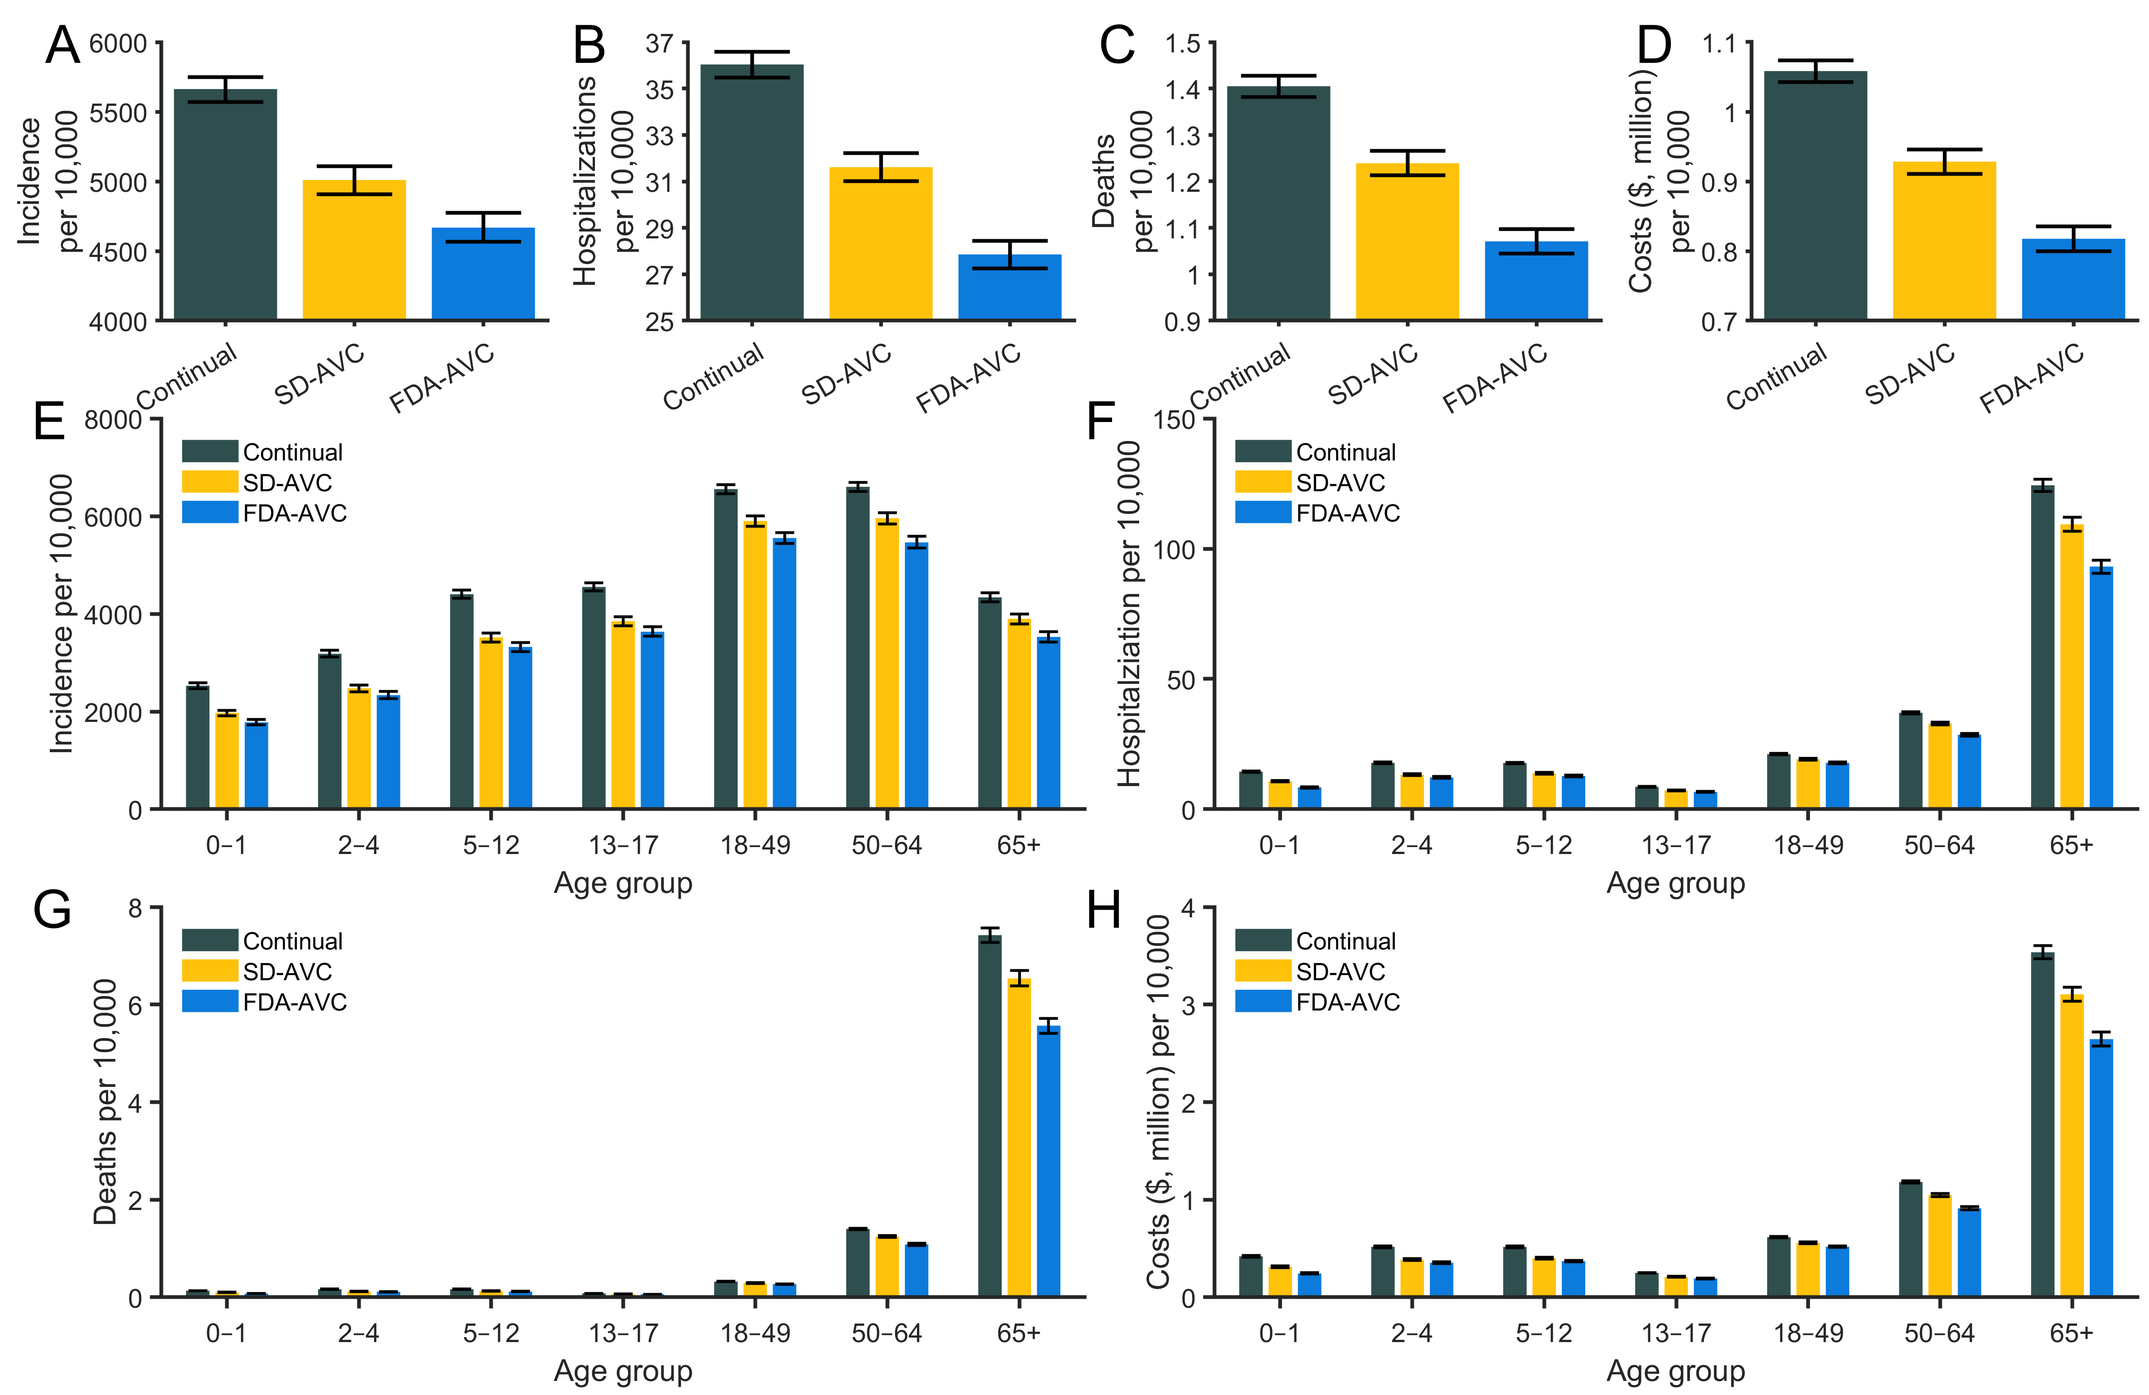
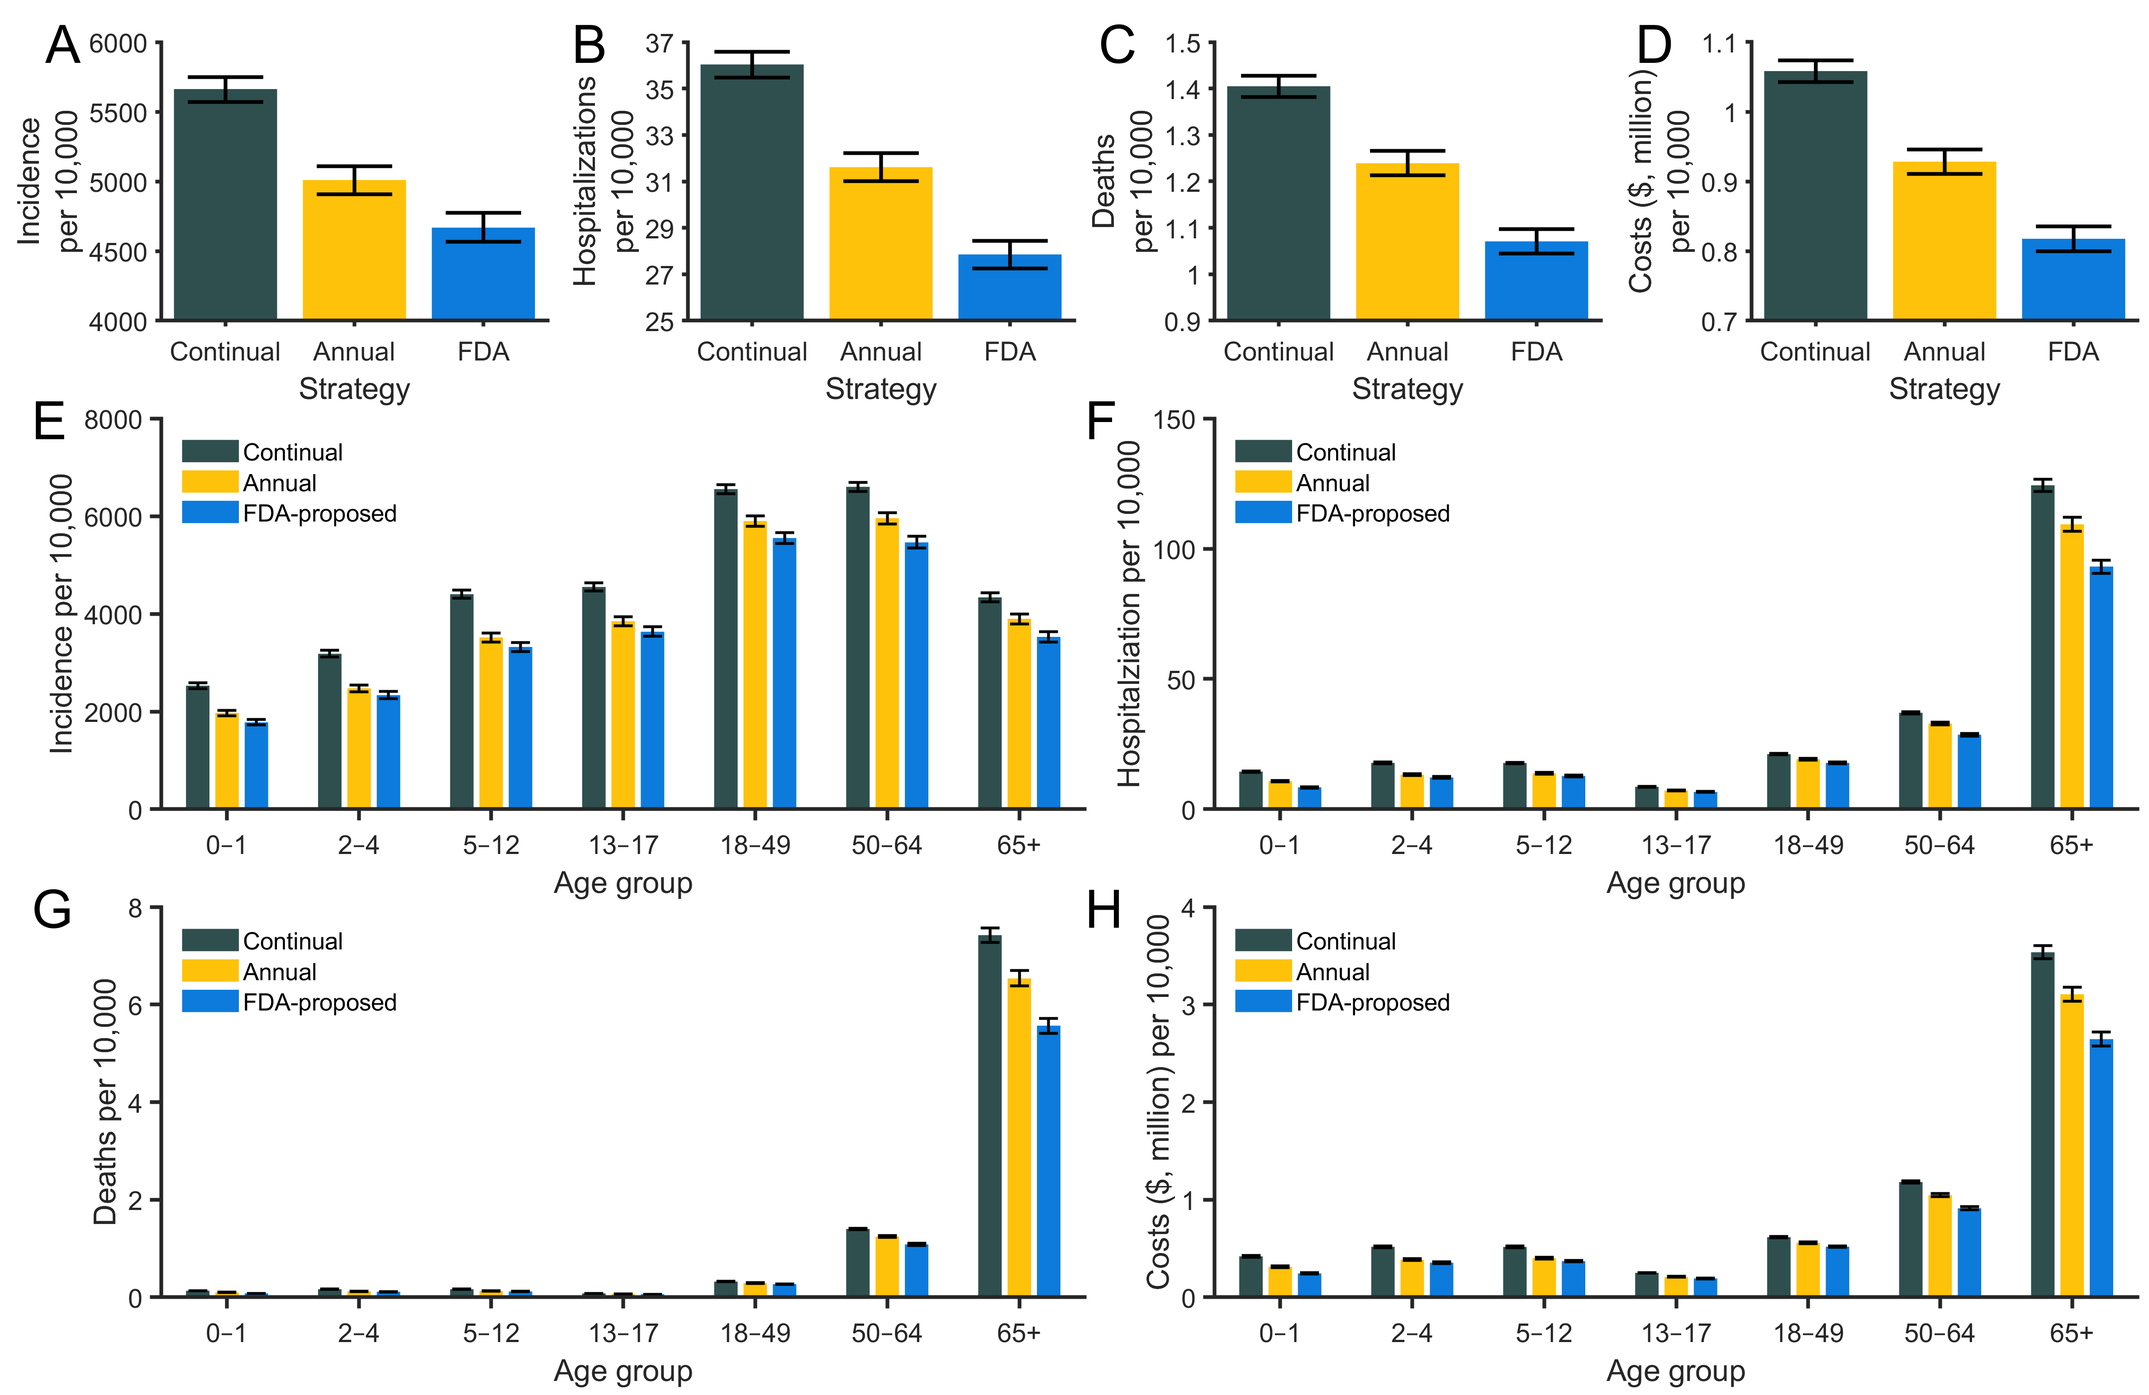
update scenario labels

diff --git a/ODE/Figures/Text_Output.m b/ODE/Figures/Text_Output.m
@@ -33,9 +33,9 @@ end
 Time_DoseFDA=Time_Dose(Y==max(Y));
 load([temp_cd 'Comparison_Summary_Main_Text_Annual_vs_Two_Dose_under_2_and_50_and_older_' num2str(Time_DoseFDA) '_days.mat']);
 
-fprintf(['SD-AVC vs FDA-AVC Hospital:' num2str(Comparison.Average.Cumulative_Count_Hospital_dt,'%10.0f') ' (95%% UI: ' num2str(Comparison.PRCT.Cumulative_Count_Hospital_dt(PRCT==2.5),'%10.0f')  char(8211) num2str(Comparison.PRCT.Cumulative_Count_Hospital_dt(PRCT==97.5),'%10.0f') ')  \n']);
-fprintf(['SD-AVC vs FDA-AVC Death:' num2str(Comparison.Average.Cumulative_Count_Death_dt,'%10.0f') ' (95%% UI: ' num2str(Comparison.PRCT.Cumulative_Count_Death_dt(PRCT==2.5),'%10.0f')  char(8211) num2str(Comparison.PRCT.Cumulative_Count_Death_dt(PRCT==97.5),'%10.0f') ')  \n']);
-fprintf(['SD-AVC vs FDA-AVC  Costs:' num2str(Comparison.Average.Cost_Total_dt(end)./10^9,'%3.2f') ' (95%% UI: ' num2str(Comparison.PRCT.Cost_Total_dt(PRCT==2.5,end)./10^9,'%3.2f') char(8211) num2str(Comparison.PRCT.Cost_Total_dt(PRCT==97.5,end)./10^9,'%3.2f') ') billion USD \n']);
+fprintf(['Annual vs FDA-proposed Hospital:' num2str(Comparison.Average.Cumulative_Count_Hospital_dt,'%10.0f') ' (95%% UI: ' num2str(Comparison.PRCT.Cumulative_Count_Hospital_dt(PRCT==2.5),'%10.0f')  char(8211) num2str(Comparison.PRCT.Cumulative_Count_Hospital_dt(PRCT==97.5),'%10.0f') ')  \n']);
+fprintf(['Annual vs FDA-proposed Death:' num2str(Comparison.Average.Cumulative_Count_Death_dt,'%10.0f') ' (95%% UI: ' num2str(Comparison.PRCT.Cumulative_Count_Death_dt(PRCT==2.5),'%10.0f')  char(8211) num2str(Comparison.PRCT.Cumulative_Count_Death_dt(PRCT==97.5),'%10.0f') ')  \n']);
+fprintf(['Annual vs FDA-proposed  Costs:' num2str(Comparison.Average.Cost_Total_dt(end)./10^9,'%3.2f') ' (95%% UI: ' num2str(Comparison.PRCT.Cost_Total_dt(PRCT==2.5,end)./10^9,'%3.2f') char(8211) num2str(Comparison.PRCT.Cost_Total_dt(PRCT==97.5,end)./10^9,'%3.2f') ') billion USD \n']);
 
 
 fprintf('=========================================================================== \n');
@@ -45,12 +45,12 @@ fprintf('=======================================================================
 load([temp_cd 'Model_Output_Summary_Main_Text_Annual.mat']);
 
 
-fprintf(['SD-AVC-Cumulative Count Hospital:' num2str(Output_Summary.Average.Cumulative_Count_Hospital,'%10.0f') ' (95%% UI: ' num2str(Output_Summary.PRCT.Cumulative_Count_Hospital(PRCT==2.5),'%10.0f') char(8211) num2str(Output_Summary.PRCT.Cumulative_Count_Hospital(PRCT==97.5),'%10.0f') ')  \n']);
-fprintf(['SD-AVC-Cumulative Count Death:' num2str(Output_Summary.Average.Cumulative_Count_Death,'%10.0f') ' (95%% UI: ' num2str(Output_Summary.PRCT.Cumulative_Count_Death(PRCT==2.5),'%10.0f') char(8211) num2str(Output_Summary.PRCT.Cumulative_Count_Death(PRCT==97.5),'%10.0f') ') \n']);
-fprintf(['SD-AVC-Cumulative Total Costs:' num2str(Output_Summary.Average.Cost_Total(end)./10^9,'%3.2f') ' (95%% UI: ' num2str(Output_Summary.PRCT.Cost_Total(PRCT==2.5,end)./10^9,'%3.2f') char(8211) num2str(Output_Summary.PRCT.Cost_Total(PRCT==97.5,end)./10^9,'%3.2f') ') billion USD \n']);
+fprintf(['Annual-Cumulative Count Hospital:' num2str(Output_Summary.Average.Cumulative_Count_Hospital,'%10.0f') ' (95%% UI: ' num2str(Output_Summary.PRCT.Cumulative_Count_Hospital(PRCT==2.5),'%10.0f') char(8211) num2str(Output_Summary.PRCT.Cumulative_Count_Hospital(PRCT==97.5),'%10.0f') ')  \n']);
+fprintf(['Annual-Cumulative Count Death:' num2str(Output_Summary.Average.Cumulative_Count_Death,'%10.0f') ' (95%% UI: ' num2str(Output_Summary.PRCT.Cumulative_Count_Death(PRCT==2.5),'%10.0f') char(8211) num2str(Output_Summary.PRCT.Cumulative_Count_Death(PRCT==97.5),'%10.0f') ') \n']);
+fprintf(['Annual-Cumulative Total Costs:' num2str(Output_Summary.Average.Cost_Total(end)./10^9,'%3.2f') ' (95%% UI: ' num2str(Output_Summary.PRCT.Cost_Total(PRCT==2.5,end)./10^9,'%3.2f') char(8211) num2str(Output_Summary.PRCT.Cost_Total(PRCT==97.5,end)./10^9,'%3.2f') ') billion USD \n']);
 
 fprintf('===========================================================================\n');
-fprintf(['Results: Benefits of FDA-AVC\n']);
+fprintf(['Results: Benefits of FDA-proposed\n']);
 fprintf('===========================================================================\n');
 
 Y=zeros(8,1);
@@ -70,9 +70,9 @@ end
 Time_Dose=Time_Dose(Y==max(Y));
 load([temp_cd 'Comparison_Summary_Main_Text_Annual_vs_Two_Dose_under_2_and_50_and_older_' num2str(Time_Dose) '_days.mat']);
 
-fprintf(['SD-AVC vs FDA-AVC Hospital:' num2str(Comparison.Average.Cumulative_Count_Hospital_dt,'%10.0f') ' (95%% UI: ' num2str(Comparison.PRCT.Cumulative_Count_Hospital_dt(PRCT==2.5),'%10.0f')  char(8211) num2str(Comparison.PRCT.Cumulative_Count_Hospital_dt(PRCT==97.5),'%10.0f') ')  \n']);
-fprintf(['SD-AVC vs FDA-AVC Death:' num2str(Comparison.Average.Cumulative_Count_Death_dt,'%10.0f') ' (95%% UI: ' num2str(Comparison.PRCT.Cumulative_Count_Death_dt(PRCT==2.5),'%10.0f')  char(8211) num2str(Comparison.PRCT.Cumulative_Count_Death_dt(PRCT==97.5),'%10.0f') ')  \n']);
-fprintf(['SD-AVC vs FDA-AVC  Costs:' num2str(Comparison.Average.Cost_Total_dt(end)./10^9,'%3.2f') ' (95%% UI: ' num2str(Comparison.PRCT.Cost_Total_dt(PRCT==2.5,end)./10^9,'%3.2f') char(8211) num2str(Comparison.PRCT.Cost_Total_dt(PRCT==97.5,end)./10^9,'%3.2f') ') billion USD \n']);
+fprintf(['Annual vs FDA-proposed Hospital:' num2str(Comparison.Average.Cumulative_Count_Hospital_dt,'%10.0f') ' (95%% UI: ' num2str(Comparison.PRCT.Cumulative_Count_Hospital_dt(PRCT==2.5),'%10.0f')  char(8211) num2str(Comparison.PRCT.Cumulative_Count_Hospital_dt(PRCT==97.5),'%10.0f') ')  \n']);
+fprintf(['Annual vs FDA-proposed Death:' num2str(Comparison.Average.Cumulative_Count_Death_dt,'%10.0f') ' (95%% UI: ' num2str(Comparison.PRCT.Cumulative_Count_Death_dt(PRCT==2.5),'%10.0f')  char(8211) num2str(Comparison.PRCT.Cumulative_Count_Death_dt(PRCT==97.5),'%10.0f') ')  \n']);
+fprintf(['Annual vs FDA-proposed  Costs:' num2str(Comparison.Average.Cost_Total_dt(end)./10^9,'%3.2f') ' (95%% UI: ' num2str(Comparison.PRCT.Cost_Total_dt(PRCT==2.5,end)./10^9,'%3.2f') char(8211) num2str(Comparison.PRCT.Cost_Total_dt(PRCT==97.5,end)./10^9,'%3.2f') ') billion USD \n']);
 
 
 fprintf('===========================================================================\n');
@@ -98,23 +98,23 @@ Time_Dose_65=Time_Dose(Y65==max(Y65));
 Time_Dose_50=Time_Dose(Y50==max(Y50));
 Time_Dose_18=Time_Dose(Y18==max(Y18));
 
-fprintf(['S1: Time between doses the maximizes overall costs averted: ' num2str(Time_Dose_65) ' days \n']);
-fprintf(['S2: Time between doses the maximizes overall costs averted: ' num2str(Time_Dose_50) ' days \n']);
-fprintf(['S3: Time between doses the maximizes overall costs averted: ' num2str(Time_Dose_18) ' days \n']);
+fprintf(['Annual with second dose for 65+: Time between doses the maximizes overall costs averted: ' num2str(Time_Dose_65) ' days \n']);
+fprintf(['Annual with second dose for 50-64: Time between doses the maximizes overall costs averted: ' num2str(Time_Dose_50) ' days \n']);
+fprintf(['Annual with second dose for 18-49: Time between doses the maximizes overall costs averted: ' num2str(Time_Dose_18) ' days \n']);
 
 load([temp_cd 'Comparison_Summary_Main_Text_Annual_vs_Two_Dose_65_and_older_' num2str(Time_Dose_65) '_days.mat']);
-fprintf(['S1: Maximal overall costs averted:' num2str(Comparison.Average.Cost_Total_dt(end)./10^9,'%3.2f') ' (95%% UI: ' num2str(Comparison.PRCT.Cost_Total_dt(PRCT==2.5,end)./10^9,'%3.2f') char(8211) num2str(Comparison.PRCT.Cost_Total_dt(PRCT==97.5,end)./10^9,'%3.2f') ') billion USD \n']);
+fprintf(['Annual with second dose for 65+: Maximal overall costs averted:' num2str(Comparison.Average.Cost_Total_dt(end)./10^9,'%3.2f') ' (95%% UI: ' num2str(Comparison.PRCT.Cost_Total_dt(PRCT==2.5,end)./10^9,'%3.2f') char(8211) num2str(Comparison.PRCT.Cost_Total_dt(PRCT==97.5,end)./10^9,'%3.2f') ') billion USD \n']);
 
 load([temp_cd 'Comparison_Summary_Main_Text_Annual_vs_Two_Dose_50_64_' num2str(Time_Dose_50) '_days.mat']);
-fprintf(['S2: Maximal overall costs averted:' num2str(Comparison.Average.Cost_Total_dt(end)./10^9,'%3.2f') ' (95%% UI: ' num2str(Comparison.PRCT.Cost_Total_dt(PRCT==2.5,end)./10^9,'%3.2f') char(8211) num2str(Comparison.PRCT.Cost_Total_dt(PRCT==97.5,end)./10^9,'%3.2f') ') billion USD \n']);
+fprintf(['Annual with second dose for 50-64: Maximal overall costs averted:' num2str(Comparison.Average.Cost_Total_dt(end)./10^9,'%3.2f') ' (95%% UI: ' num2str(Comparison.PRCT.Cost_Total_dt(PRCT==2.5,end)./10^9,'%3.2f') char(8211) num2str(Comparison.PRCT.Cost_Total_dt(PRCT==97.5,end)./10^9,'%3.2f') ') billion USD \n']);
 
 load([temp_cd 'Comparison_Summary_Main_Text_Annual_vs_Two_Dose_18_49_' num2str(Time_Dose_18) '_days.mat']);
-fprintf(['S3: Maximal overall costs averted:' num2str(Comparison.Average.Cost_Total_dt(end)./10^9,'%3.2f') ' (95%% UI: ' num2str(Comparison.PRCT.Cost_Total_dt(PRCT==2.5,end)./10^9,'%3.2f') char(8211) num2str(Comparison.PRCT.Cost_Total_dt(PRCT==97.5,end)./10^9,'%3.2f') ') billion USD \n']);
+fprintf(['Annual with second dose for 18-49: Maximal overall costs averted:' num2str(Comparison.Average.Cost_Total_dt(end)./10^9,'%3.2f') ' (95%% UI: ' num2str(Comparison.PRCT.Cost_Total_dt(PRCT==2.5,end)./10^9,'%3.2f') char(8211) num2str(Comparison.PRCT.Cost_Total_dt(PRCT==97.5,end)./10^9,'%3.2f') ') billion USD \n']);
 
 fprintf('===========================================================================\n');
 fprintf(['Results: Discussions\n']);
 fprintf('===========================================================================\n');
 
 load([temp_cd 'Comparison_Summary_Main_Text_Annual_vs_Two_Dose_under_2_and_50_and_older_' num2str(Time_DoseFDA) '_days.mat']);
-fprintf(['Relative SD-AVC vs FDA-AVC Hospital: ' num2str(100.*Comparison.Average.Cumulative_Count_Hospital_rel,'%2.0f') '%%\n']);%
-fprintf(['Relative SD-AVC vs FDA-AVC Death: ' num2str(100.*Comparison.Average.Cumulative_Count_Death_rel,'%2.0f') '%%\n']);
+fprintf(['Relative Annual vs FDA-proposed Hospital: ' num2str(100.*Comparison.Average.Cumulative_Count_Hospital_rel,'%2.0f') '%%\n']);%
+fprintf(['Relative Annual vs FDA-proposed Death: ' num2str(100.*Comparison.Average.Cumulative_Count_Death_rel,'%2.0f') '%%\n']);

diff --git a/ODE/Figures/Supplement_Figure_15.m b/ODE/Figures/Supplement_Figure_15.m
@@ -2,7 +2,7 @@ function  Supplement_Figure_15
 close all;
 Y_Err.LineWidth=2;
 Y_Err.Cap_Size=40;
-XTL={'Continual','SD-AVC','FDA-AVC'};
+XTL={'Continual','Annual','FDA'};
 temp_cd=pwd;
 load([temp_cd(1:end-11) 'Contact_Matrix\Contact_USA_85.mat'],'N');
 Av=[0:84];
@@ -133,7 +133,7 @@ set(gca,'LineWidth',2,'TickDir','out','Fontsize',14,'XTick',[1:7],'XTickLabel',A
 xlim([0.5 7.5])
 ylabel('Incidence per 10,000','FontSize',16)
 xlabel('Age group','FontSize',16)
-legend({'Continual','SD-AVC','FDA-AVC'},'Location','northwest');
+legend({'Continual','Annual','FDA-proposed'},'Location','northwest');
 legend box off;
 text(-0.14,1,'E','Fontsize',28,'Units','Normalized');
 subplot('Position',[0.565, 0.42,0.43 0.28])
@@ -149,7 +149,7 @@ set(gca,'LineWidth',2,'TickDir','out','Fontsize',14,'XTick',[1:7],'XTickLabel',A
 xlim([0.5 7.5])
 ylabel('Hospitalziation per 10,000','FontSize',16)
 xlabel('Age group','FontSize',16)
-legend({'Continual','SD-AVC','FDA-AVC'},'Location','northwest');
+legend({'Continual','Annual','FDA-proposed'},'Location','northwest');
 legend box off;
 text(-0.14,1,'F','Fontsize',28,'Units','Normalized');
 
@@ -168,7 +168,7 @@ set(gca,'LineWidth',2,'TickDir','out','Fontsize',14,'XTick',[1:7],'XTickLabel',A
 xlim([0.5 7.5])
 ylabel('Deaths per 10,000','FontSize',16)
 xlabel('Age group','FontSize',16)
-legend({'Continual','SD-AVC','FDA-AVC'},'Location','northwest');
+legend({'Continual','Annual','FDA-proposed'},'Location','northwest');
 legend box off;
 text(-0.14,1,'G','Fontsize',28,'Units','Normalized');
 
@@ -186,7 +186,7 @@ set(gca,'LineWidth',2,'TickDir','out','Fontsize',14,'XTick',[1:7],'XTickLabel',A
 xlim([0.5 7.5])
 ylabel('Costs ($, million) per 10,000','FontSize',16)
 xlabel('Age group','FontSize',16)
-legend({'Continual','SD-AVC','FDA-AVC'},'Location','northwest');
+legend({'Continual','Annual','FDA-proposed'},'Location','northwest');
 legend box off;
 text(-0.14,1,'H','Fontsize',28,'Units','Normalized');
 print(gcf,['Supplementary_Figure_15.png'],'-dpng','-r300');    

diff --git a/ODE/Figures/Figure_1.m b/ODE/Figures/Figure_1.m
@@ -2,7 +2,7 @@ function Figure_1
 close all;
 Y_Err.LineWidth=2;
 Y_Err.Cap_Size=40;
-XTL={'SD-AVC','FDA-AVC'};
+XTL={'Annual','FDA-proposed'};
 temp_cd=pwd;
 load([temp_cd(1:end-11) 'Contact_Matrix\Contact_USA_85.mat'],'N');
 Av=[0:84];
@@ -116,7 +116,7 @@ set(gca,'LineWidth',2,'TickDir','out','Fontsize',14,'XTick',[1:7],'XTickLabel',A
 xlim([0.5 7.5])
 ylabel('Incidence per 10,000','FontSize',16)
 xlabel('Age group','FontSize',16)
-legend({'SD-AVC','FDA-AVC'},'Location','northwest');
+legend({'Annual','FDA-proposed'},'Location','northwest');
 legend boxoff
 text(-0.14,1,'E','Fontsize',28,'Units','Normalized');
 subplot('Position',[0.565, 0.42,0.43 0.28])
@@ -132,7 +132,7 @@ set(gca,'LineWidth',2,'TickDir','out','Fontsize',14,'XTick',[1:7],'XTickLabel',A
 xlim([0.5 7.5])
 ylabel('Hospitalziation per 10,000','FontSize',16)
 xlabel('Age group','FontSize',16)
-legend({'SD-AVC','FDA-AVC'},'Location','northwest');
+legend({'Annual','FDA-proposed'},'Location','northwest');
 legend boxoff
 text(-0.14,1,'F','Fontsize',28,'Units','Normalized');
 
@@ -151,7 +151,7 @@ set(gca,'LineWidth',2,'TickDir','out','Fontsize',14,'XTick',[1:7],'XTickLabel',A
 xlim([0.5 7.5])
 ylabel('Deaths per 10,000','FontSize',16)
 xlabel('Age group','FontSize',16)
-legend({'SD-AVC','FDA-AVC'},'Location','northwest');
+legend({'Annual','FDA-proposed'},'Location','northwest');
 legend boxoff
 text(-0.14,1,'G','Fontsize',28,'Units','Normalized');
 
@@ -169,7 +169,7 @@ set(gca,'LineWidth',2,'TickDir','out','Fontsize',14,'XTick',[1:7],'XTickLabel',A
 xlim([0.5 7.5])
 ylabel('Costs ($, million) per 10,000','FontSize',16)
 xlabel('Age group','FontSize',16)
-legend({'SD-AVC','FDA-AVC'},'Location','northwest');
+legend({'Annual','FDA-proposed'},'Location','northwest');
 legend boxoff
 text(-0.14,1,'H','Fontsize',28,'Units','Normalized');
 print(gcf,['Figure_1.jpg'],'-djpeg','-r600');    

diff --git a/ODE/Figures/Supplement_Figure_16.m b/ODE/Figures/Supplement_Figure_16.m
@@ -2,7 +2,6 @@ function  Supplement_Figure_16
 close all;
 Y_Err.LineWidth=2;
 Y_Err.Cap_Size=40;
-XTL={'Continual','Annual','Two Dose'};
 temp_cd=pwd;
 load([temp_cd(1:end-11) 'Contact_Matrix\Contact_USA_85.mat'],'N');
 Av=[0:84];
@@ -118,7 +117,7 @@ for ii=1:8
     text(0.05,0.95,Age_C{ii},'Fontsize',16,'units','normalized')
     text(-0.3,1,char(72+ii),"FontSize",24,'units','normalized')
 end
-legend({'Continual: Vaccine','Continual: Natural','SD-AVC: Vaccine','SD-AVC: Natural','FDA-AVC: Vaccine','FDA-AVC: Natural'},'NumColumns',6,'Position',[0.157933638715726,0.002406542734027,0.738157878737701,0.026715076489287],'Fontsize',16)
+legend({'Continual: Vaccine','Continual: Natural','Annual: Vaccine','Annual: Natural','FDA-proposed: Vaccine','FDA-proposed: Natural'},'NumColumns',6,'Position',[0.157933638715726,0.002406542734027,0.738157878737701,0.026715076489287],'Fontsize',16)
 legend boxoff;
 print(gcf,['Supplementary_Figure_16.png'],'-dpng','-r300');    
 end

diff --git a/ODE/Figures/Supplement_Figure_18.m b/ODE/Figures/Supplement_Figure_18.m
@@ -64,7 +64,7 @@ for ii=1:8
         xlabel('Date','fontsize',16)
 %         xtickformat('MMM d' ); ax=gca; ax.XTickLabel = ax.XTickLabel;
 
-         legend({'Continual','SD-AVC','FDA-AVC'},'Fontsize',12)
+         legend({'Continual','Annual','FDA-proposed'},'Fontsize',12,'Position',[0.157275730038456,0.88499784074044,0.102631576888655,0.088197144127696],'units','normalized');
          legend boxoff
 
     else

diff --git a/ODE/Figures/Supplement_Figure_17.m b/ODE/Figures/Supplement_Figure_17.m
@@ -66,7 +66,7 @@ for ii=1:8
     text(-0.3,0.975,char(64+ii),"FontSize",24,'units','normalized')
 %     xlabel('Date','fontsize',16)
 if(ii==1)
-        legend({'Continual','SD-AVC','FDA-AVC'},'Fontsize',12)
+        legend({'Continual','Annual','FDA-proposed'},'Fontsize',12)
         legend boxoff
 end
 end

diff --git a/ODE/Figures/Table_2.m b/ODE/Figures/Table_2.m
@@ -1,6 +1,6 @@
 function T=Table_2()
 
-Strategy={'SD-AVC','FDA-AVC','S1','S2','S3'}';
+Strategy={'Annual','FDA-proposed','Annual with second dose for 65+','Annual with second dose for 50-64','Annual with second dose for 18-49'}';
 
 temp_cd=pwd;
 
